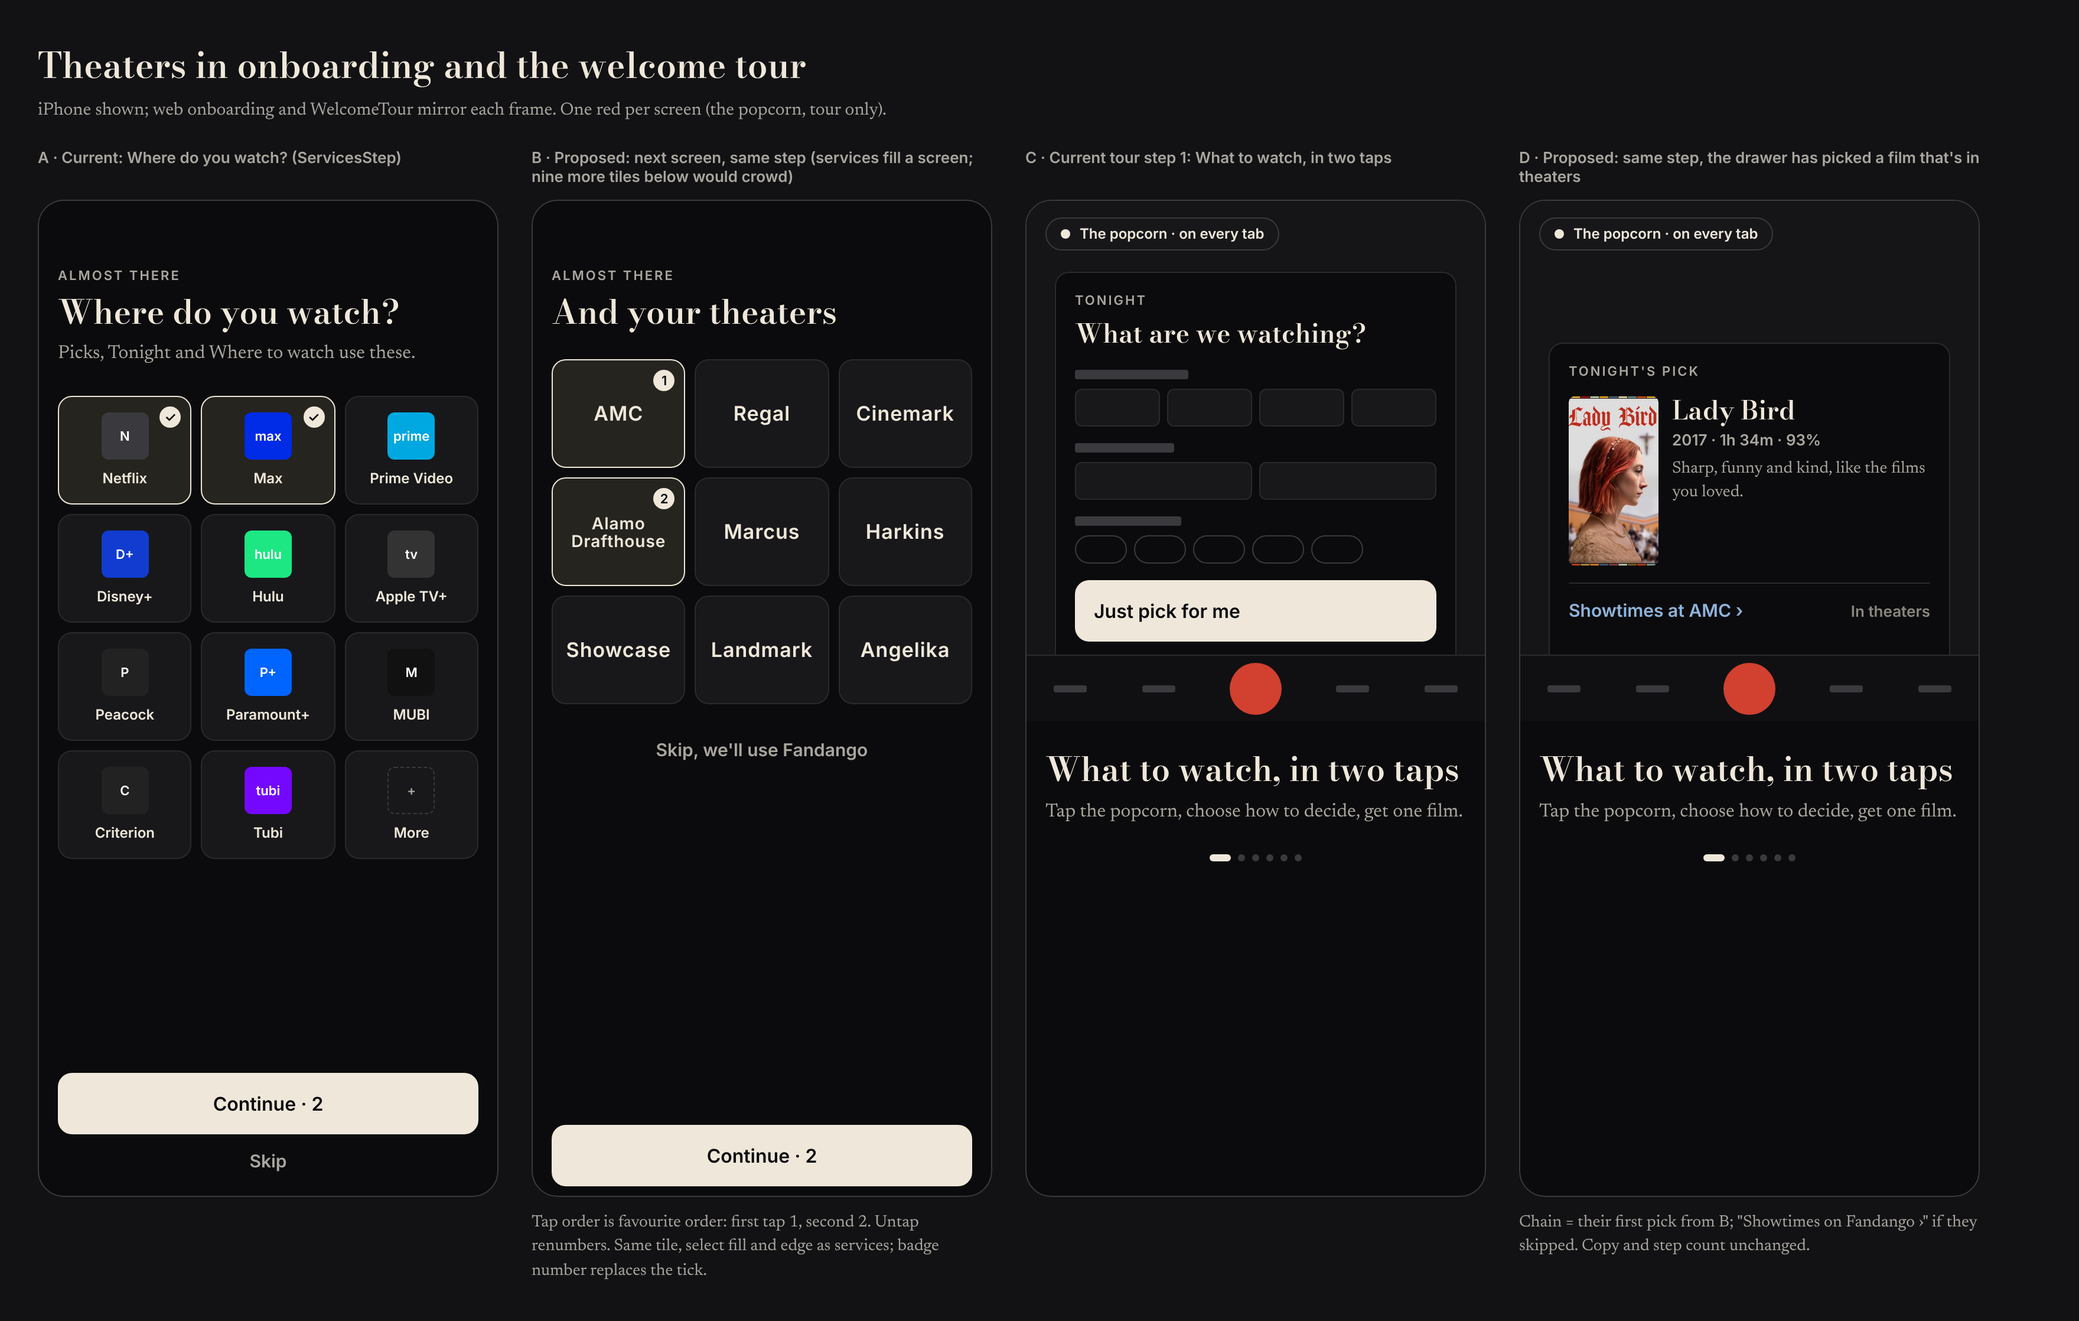
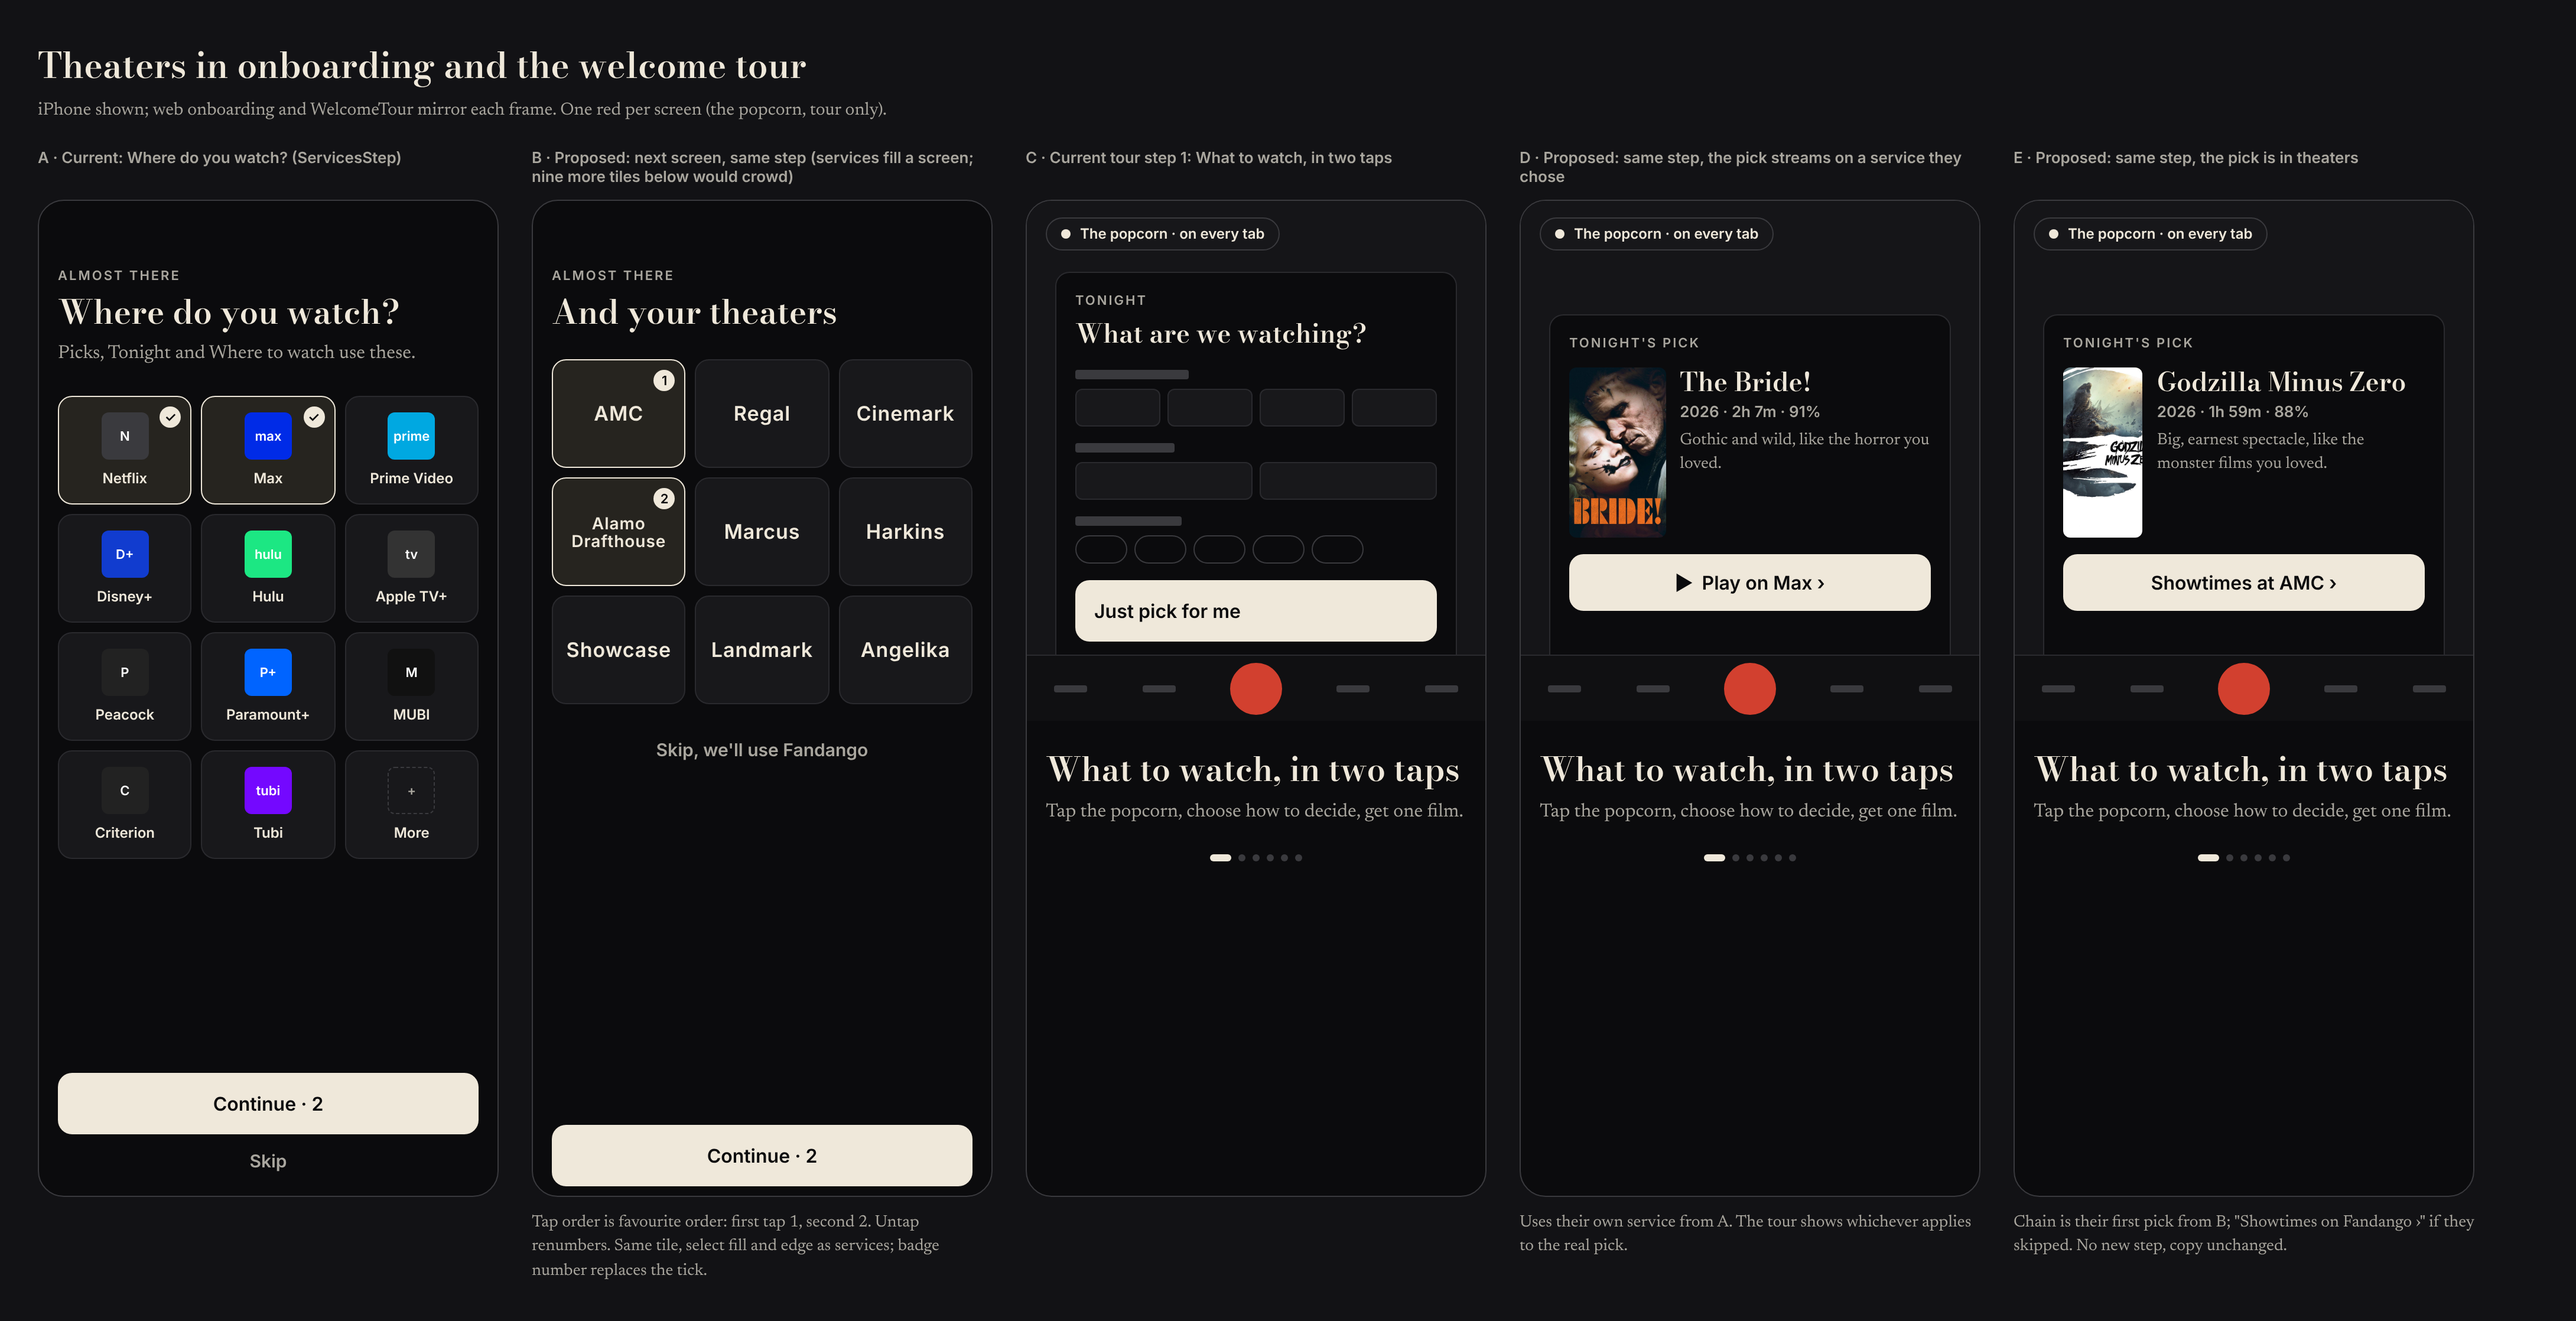
Mock: tour frames D (Play on Max) and E (Showtimes at AMC)
Claude-Session: https://claude.ai/code/session_013WRDCFXH8nihP92apJAVW7

diff --git a/mockups/journeys/b36-theaters-onboarding.html b/mockups/journeys/b36-theaters-onboarding.html
@@ -4,7 +4,7 @@
 @font-face{font-family:News;src:url(file:///home/user/montage/assets/fonts/Newsreader-Regular.woff)}
 :root{--bg:#0B0B0D;--p:#18181B;--line:#2A2A2E;--line2:#3A3A3E;--ink:#EFE8DA;--muted:#A9A69E;--faint:#8A877F;--acc2:#8FB3D9;--sel:#EFE8DA;--red:#D2402F}
 *{box-sizing:border-box;margin:0;padding:0}
-body{width:1760px;background:#121215;color:var(--ink);font:600 15px/1.4 Inter,Arial,sans-serif;padding:32px}
+body{width:2180px;background:#121215;color:var(--ink);font:600 15px/1.4 Inter,Arial,sans-serif;padding:32px}
 h1{font:600 30px Bod}.lede{color:var(--muted);margin:8px 0 24px;font:15px News}
 .cols{display:flex;gap:28px;align-items:flex-start}.col{width:390px}
 .lab{font:600 13px Inter;color:var(--muted);margin-bottom:8px;min-height:36px}
@@ -42,7 +42,7 @@ h2{font:500 28px/1.15 Bod;margin-top:8px}.sub{font:16px/1.45 News;color:var(--mu
 .sh{display:flex;align-items:center;justify-content:space-between;height:44px;border-top:1px solid var(--line);padding-top:2px}
 .sh b{font:600 15px Inter;color:var(--acc2)}.sh span{font:13px Inter;color:var(--faint)}
 .note{font:14px/1.45 News;color:var(--muted);margin-top:12px}
-</style></head><body>
+.pb{height:48px;border-radius:12px;background:var(--sel);color:#0B0B0D;font:600 16px Inter;display:flex;align-items:center;justify-content:center}</style></head><body>
 <h1>Theaters in onboarding and the welcome tour</h1>
 <p class="lede">iPhone shown; web onboarding and WelcomeTour mirror each frame. One red per screen (the popcorn, tour only).</p>
 <div class="cols">
@@ -68,15 +68,24 @@ h2{font:500 28px/1.15 Bod;margin-top:8px}.sub{font:16px/1.45 News;color:var(--mu
 <div class="ti">What to watch, in two taps</div><div class="bd">Tap the popcorn, choose how to decide, get one film.</div>
 <div class="dots"><i class="on"></i><i></i><i></i><i></i><i></i><i></i></div></div></div>
 
-<div class="col"><div class="lab">D · Proposed: same step, the drawer has picked a film that's in theaters</div>
+<div class="col"><div class="lab">D · Proposed: same step, the pick streams on a service they chose</div>
 <div class="ph"><div class="stage"><div class="tag"><i></i>The popcorn · on every tab</div>
-<div class="dr" style="top:120px"><div class="k">TONIGHT'S PICK</div>
-<div class="res"><div class="po"></div><div><div class="rt">Lady Bird</div><div class="rm">2017 · 1h 34m · 93%</div><div class="why">Sharp, funny and kind, like the films you loved.</div></div></div>
-<div class="sh"><b>Showtimes at AMC ›</b><span>In theaters</span></div></div>
+<div class="dr" style="top:96px"><div class="k">TONIGHT'S PICK</div>
+<div class="res"><div class="po" style="background-image:url(file:///home/user/CS-Term-Project/mockups/journeys/b36-theaters-onboarding-img/lV8YHwGkYZsm6EfIqnhaSz2avKt.jpg)"></div><div><div class="rt">The Bride!</div><div class="rm">2026 · 2h 7m · 91%</div><div class="why">Gothic and wild, like the horror you loved.</div></div></div>
+<div class="pb">&#9654;&ensp;Play on Max ›</div></div>
 <div class="tab"><span></span><span></span><b class="pop"></b><span></span><span></span></div></div>
 <div class="ti">What to watch, in two taps</div><div class="bd">Tap the popcorn, choose how to decide, get one film.</div>
 <div class="dots"><i class="on"></i><i></i><i></i><i></i><i></i><i></i></div></div>
-<p class="note">Chain = their first pick from B; "Showtimes on Fandango ›" if they skipped. Copy and step count unchanged.</p></div>
+<p class="note">Uses their own service from A. The tour shows whichever applies to the real pick.</p></div>
+<div class="col"><div class="lab">E · Proposed: same step, the pick is in theaters</div>
+<div class="ph"><div class="stage"><div class="tag"><i></i>The popcorn · on every tab</div>
+<div class="dr" style="top:96px"><div class="k">TONIGHT'S PICK</div>
+<div class="res"><div class="po" style="background-image:url(file:///home/user/CS-Term-Project/mockups/journeys/b36-theaters-onboarding-img/fy1RecLQ4DeJPRcOBFh03GhDkVo.jpg)"></div><div><div class="rt">Godzilla Minus Zero</div><div class="rm">2026 · 1h 59m · 88%</div><div class="why">Big, earnest spectacle, like the monster films you loved.</div></div></div>
+<div class="pb">Showtimes at AMC ›</div></div>
+<div class="tab"><span></span><span></span><b class="pop"></b><span></span><span></span></div></div>
+<div class="ti">What to watch, in two taps</div><div class="bd">Tap the popcorn, choose how to decide, get one film.</div>
+<div class="dots"><i class="on"></i><i></i><i></i><i></i><i></i><i></i></div></div>
+<p class="note">Chain is their first pick from B; "Showtimes on Fandango ›" if they skipped. No new step, copy unchanged.</p></div>
 </div>
 <script>
 const s=[["Netflix","#E50914","N",1],["Max","#002BE7","max",1],["Prime Video","#00A8E1","prime"],["Disney+","#113CCF","D+"],["Hulu","#1CE783","hulu"],["Apple TV+","#333","tv"],["Peacock","#222","P"],["Paramount+","#0064FF","P+"],["MUBI","#111","M"],["Criterion","#222","C"],["Tubi","#7408FF","tubi"]];
